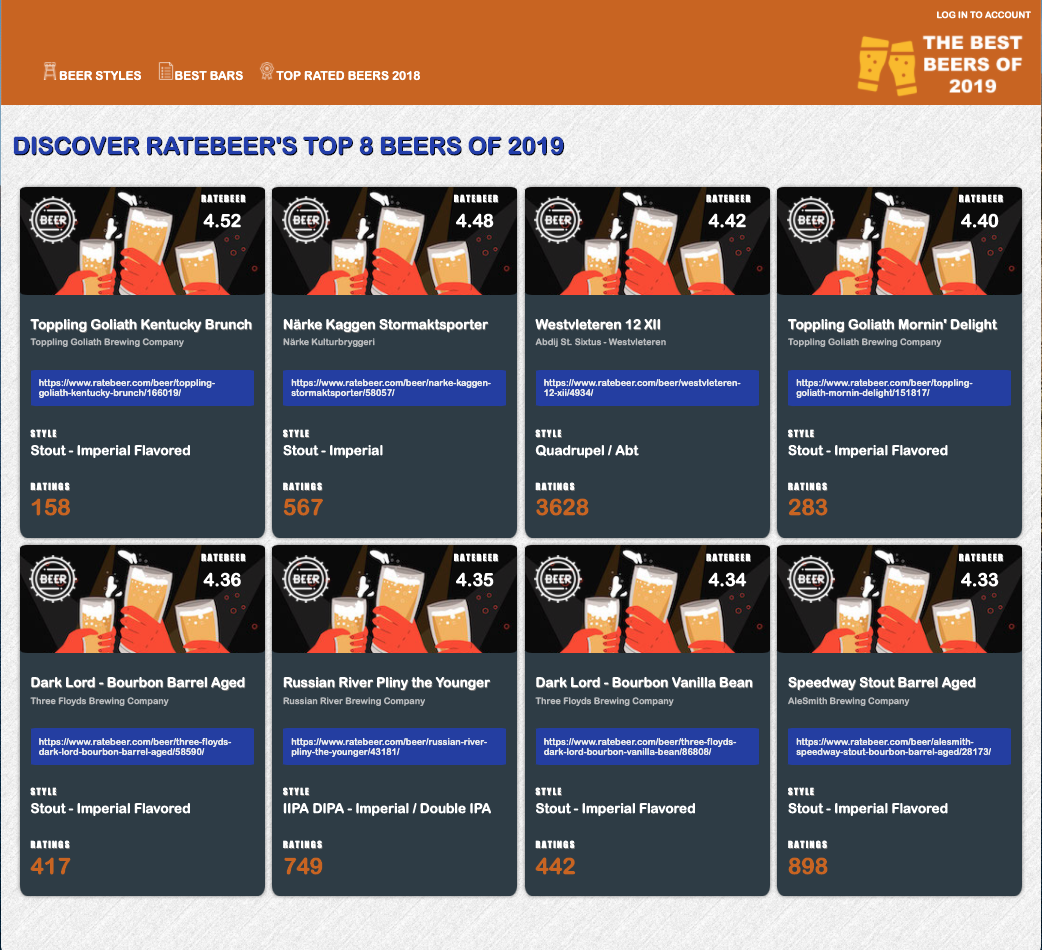
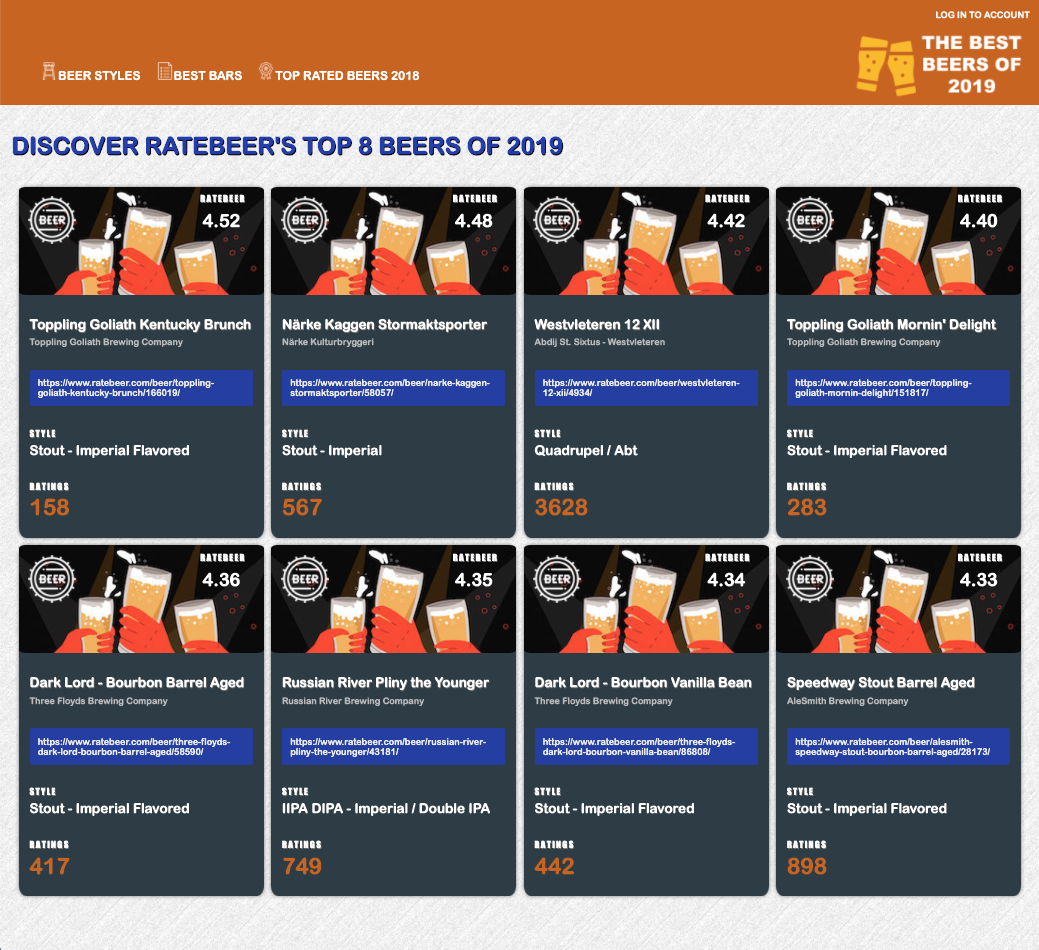
Ajust spacing and crop image for README

diff --git a/README.md b/README.md
@@ -21,10 +21,11 @@ Additionally, within each card, I also used CSS grid for the top third of the ca
 
 ## My Project ##
 
-#### Static Screenshot of Site ####
+### Static Screenshot of Site ###
 
 ![Ratebeer Top 8 Beers Site](readme-assets/rw-static-comp.png)
 
-#### Responsiveness in Action ####
+
+### Responsiveness in Action ###
 
 ![Site responsiveness demo](readme-assets/rw-static-comp-responsive.gif)
